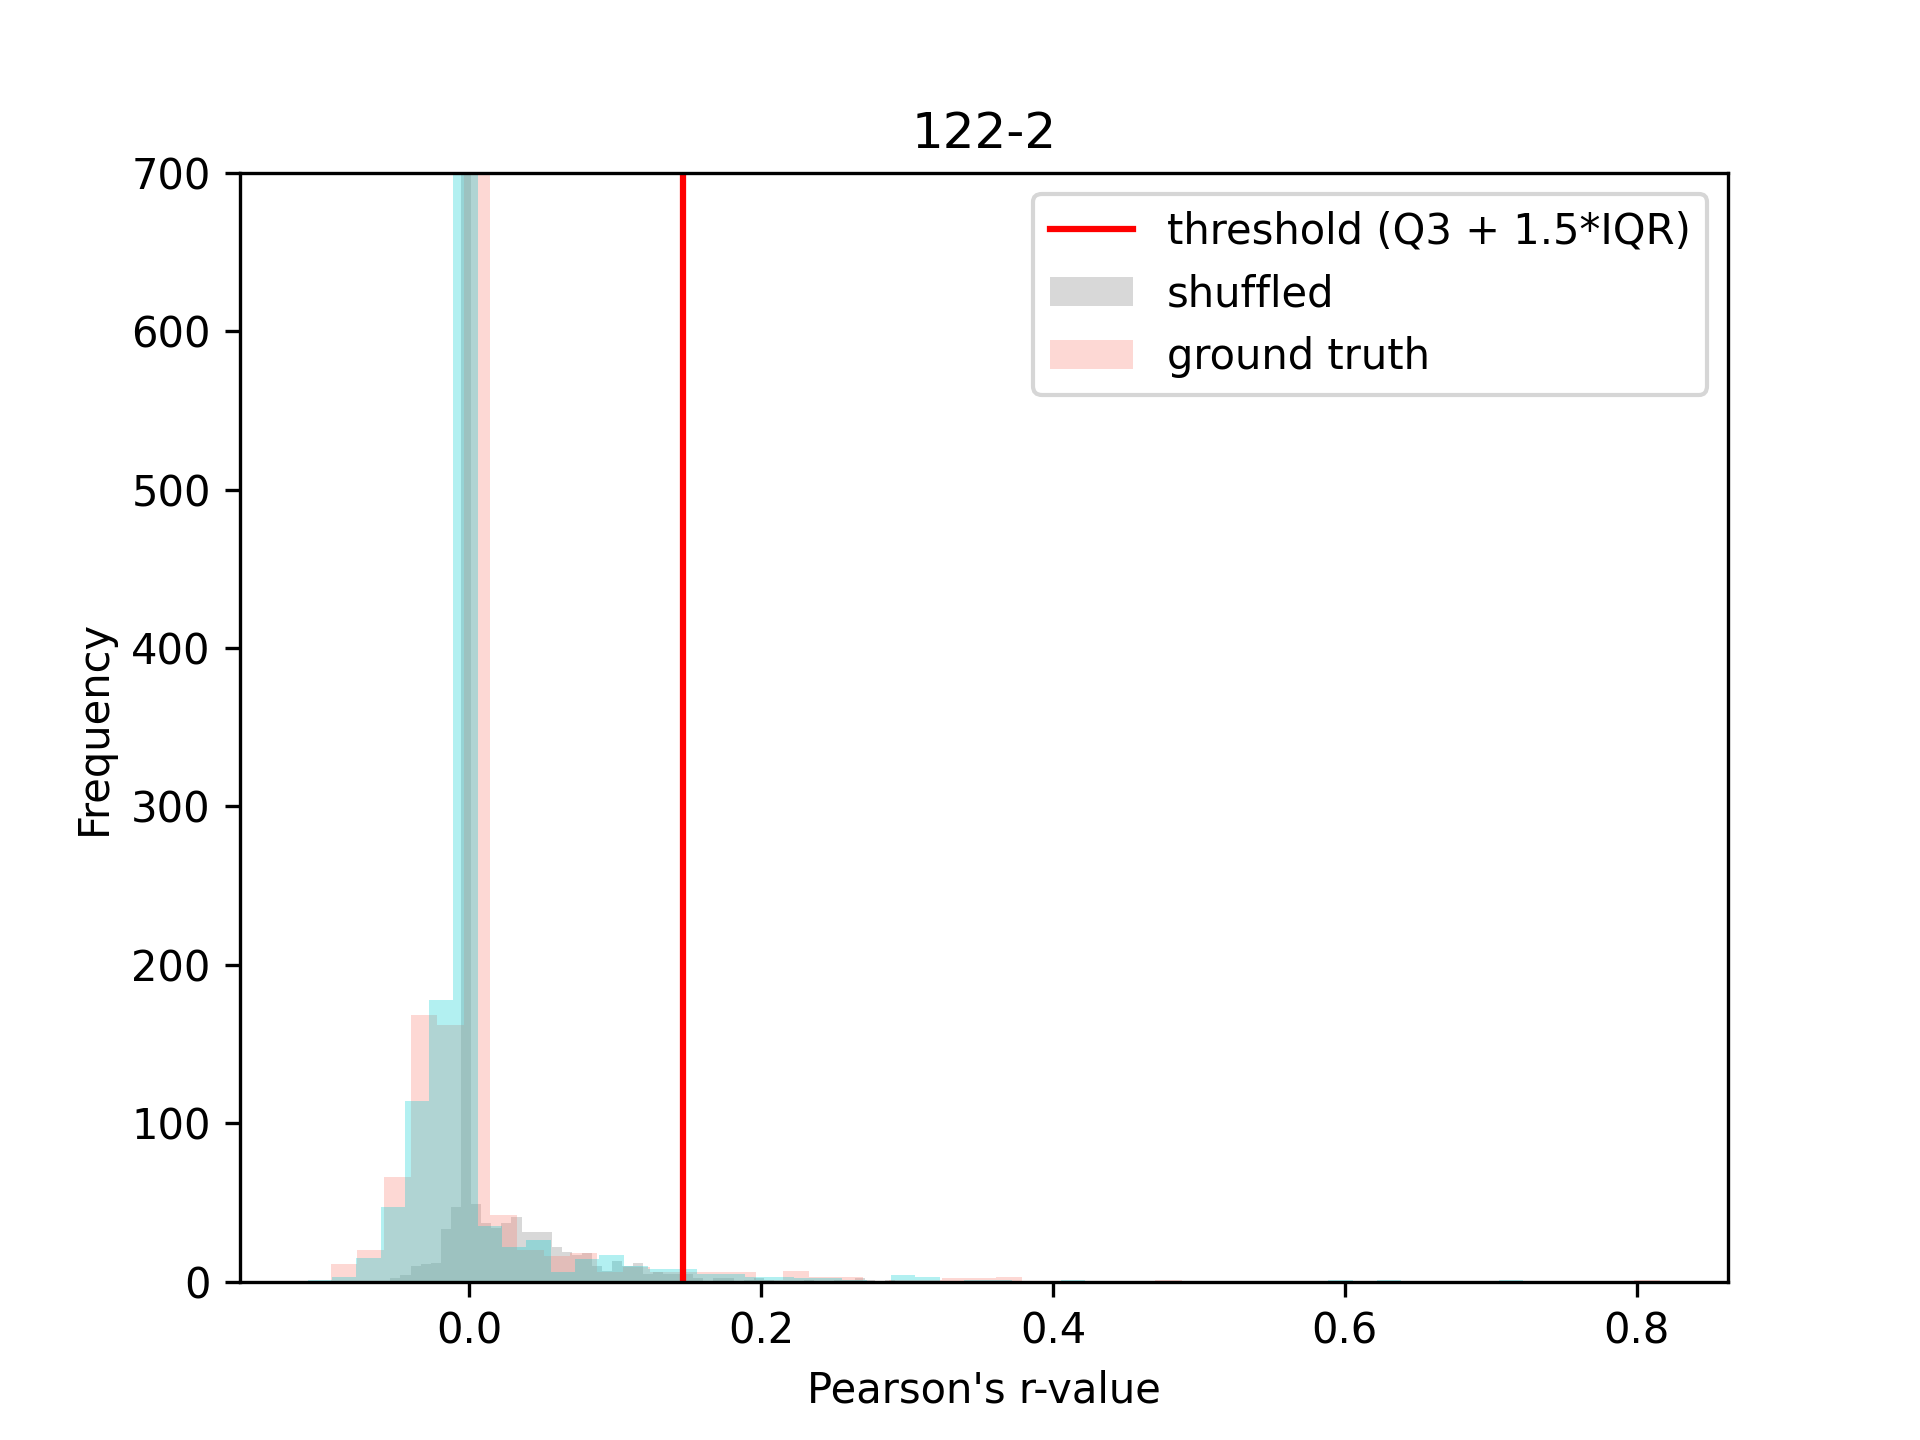
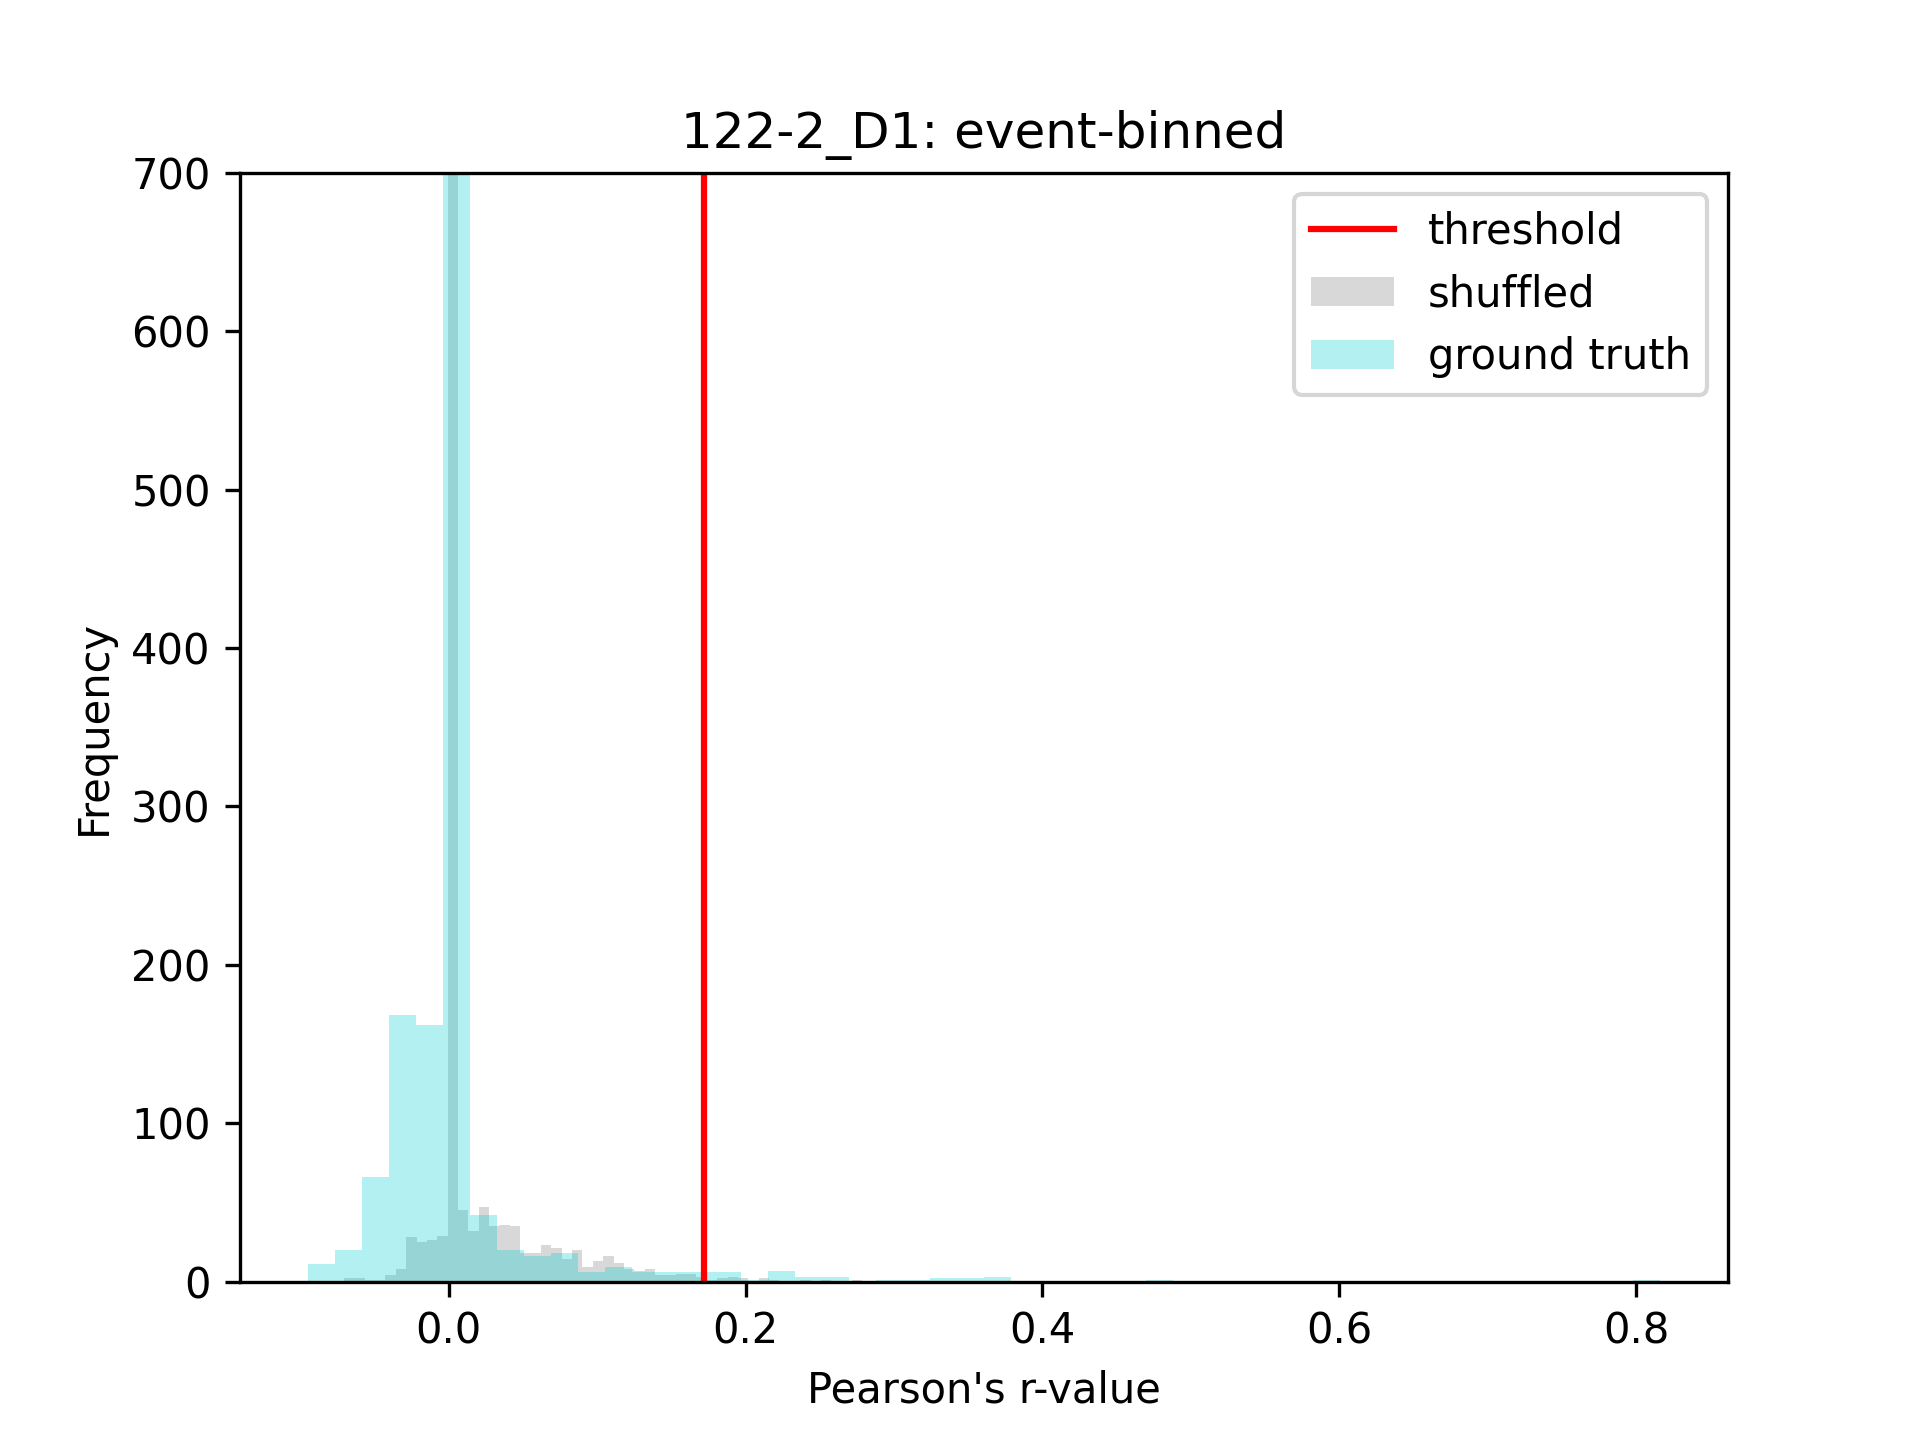
Updating randomize_by_event.py analyses.

diff --git a/analyses/benchmarking/random_networks/randomize_by_event.py b/analyses/benchmarking/random_networks/randomize_by_event.py
@@ -21,7 +21,7 @@ import matplotlib.pyplot as plt
 from scipy import stats
 
 RANDOM_DATA_PATH = '/Users/veronica_porubsky/GitHub/DG_fear_conditioning_graph_theory/analyses/benchmarking/random_networks/randomized_neural_data/'
-EXPORT_PATH = '/Users/veronica_porubsky/GitHub/DG_fear_conditioning_graph_theory/analyses/benchmarking/random_networks/'
+EXPORT_PATH = '/Users/veronica_porubsky/GitHub/DG_fear_conditioning_graph_theory/analyses/benchmarking/random_networks/scratch-analysis/'
 
 def bins(lst, n):
     """Yield successive n-sized chunks from lst."""
@@ -40,14 +40,18 @@ def event_bins(data, events):
     data = list(data)
     build_binned_list = []
     event_idx = list(np.nonzero(events)[0])
-    if event_idx[-1] != len(data):
-        event_idx.append(len(data))
-    start_val = 0
-    for idx in event_idx:
-        build_binned_list.append(data[start_val:idx])
-        start_val = idx
-    np.random.shuffle(build_binned_list)
-    flat_random_binned_list = [item for sublist in build_binned_list for item in sublist]
+    print(event_idx)
+    if not event_idx:
+        flat_random_binned_list = data
+    else:
+        if event_idx[-1] != len(data):
+            event_idx.append(len(data))
+        start_val = 0
+        for idx in event_idx:
+            build_binned_list.append(data[start_val:idx])
+            start_val = idx
+        np.random.shuffle(build_binned_list)
+        flat_random_binned_list = [item for sublist in build_binned_list for item in sublist]
     return flat_random_binned_list
 
 
@@ -110,7 +114,24 @@ def generate_event_segmented(data: list, event_data: list) -> np.ndarray:
 
     return flatten_array
 
+def generate_randomized(data: list, bin_size: int) -> np.ndarray:
+    """
+    data: list
 
+    Parameter data should contain a list of np.ndarray objects.
+
+    Return a numpy array or NWB file.
+    """
+    time = data[0, :].copy()
+    build_new_array = np.array(bins(lst=data[1, :], n=bin_size))
+
+    # build binned dist
+    flatten_array = time.copy()
+    for row in range(np.shape(data[2:, :])[0]):
+        binned_row = bins(lst=data[row + 2, :], n=bin_size)
+        flatten_array = np.vstack([flatten_array, binned_row])
+
+    return flatten_array
 
 #%% Demonstrate binned randomization example
 file_str = '122-2'
@@ -202,36 +223,42 @@ for file in os.listdir(path_to_data):
         mouse_id_list.append(mouse_id)
 
 #%% Only looking at Context B (first half of data)
-import pandas as pd
-# store: mouse_id, threshold event separated, ks-stat event separated, threshold bin-separated, ks-stat bin-separated
-results = np.zeros((58, 4))
+# store: mouse_id, mean, median, max pearson, threshold event separated, ks-stat event separated, mean, median, max pearson, threshold bin-separated, ks-stat bin-separated
+results = np.zeros((58, 13))
 
 for count, mouse in enumerate(mouse_id_list):
     file_str = mouse[:len(mouse)-3]
     day = mouse[len(mouse)-2:]
     print(file_str)
     print(day)
-    if not day == 'D5' and not day == 'D0':
+    if day == 'D5' or day == 'D0':
+        continue
+    else:
         if day == 'D1':
             event_day = 'Day1'
         else:
             event_day = 'Day9'
-        data = np.genfromtxt(path_to_data + f'/{file_str}_{day}_smoothed_calcium_traces.csv', delimiter=',')[:, 0:1800]
-        event_data = np.genfromtxt(path_to_data + f'/{file_str}_{event_day}_eventTrace.csv', delimiter=',')[:, 0:1800]
+        data = np.genfromtxt(path_to_data + f'/{file_str}_{day}_smoothed_calcium_traces.csv', delimiter=',')
+        event_data = np.genfromtxt(path_to_data + f'/{file_str}_{event_day}_eventTrace.csv', delimiter=',')
         random_event_binned_data = generate_event_segmented(data=data.copy(), event_data=event_data)
 
         # Plot the points of identified events
-        plt.plot(event_data[0,:], event_data[2,:], '.')
-        # Check if context A only random networks are different than context B only, and how they compare to
-        plt.plot(random_event_binned_data[0, :], random_event_binned_data[2,:], color='grey', alpha=0.5)
-        plt.plot(data[0, 0:1800], data[2,0:1800], 'darkturquoise', alpha = 0.5)
-        #plt.plot(data[0, 1800:3600], data[2,1800:3600], 'salmon', alpha = 0.5)
-        plt.title('Binned random data')
-        plt.show()
+        # plt.plot(event_data[0,:], event_data[2,:], '.')
+        # # Check if context A only random networks are different than context B only, and how they compare to
+        # plt.plot(random_event_binned_data[0, :], random_event_binned_data[2,:], color='grey', alpha=0.5)
+        # plt.plot(data[0, 0:1800], data[2,0:1800], 'darkturquoise', alpha = 0.5)
+        # #plt.plot(data[0, 1800:3600], data[2,1800:3600], 'salmon', alpha = 0.5)
+        # plt.title('Binned random data')
+        # plt.show()
 
         random_nng = nng(random_event_binned_data)
         x = random_nng.pearsons_correlation_matrix
         np.fill_diagonal(x, 0)
+
+        # Store event trace results
+        results[count, 0] = np.median(x)
+        results[count, 1] = np.mean(x)
+        results[count, 2] = np.max(x)
 
         ##  Generate multiple random timeseries for robust analysis (but then need to account for change in sampling size)
         # store_flattened_random = list(np.tril(x).flatten())
@@ -247,14 +274,17 @@ for count, mouse in enumerate(mouse_id_list):
         # Compute percentiles
         Q1 = np.percentile(x, 25, interpolation='midpoint')
         Q3 = np.percentile(x, 75, interpolation='midpoint')
-        print(Q3)
         IQR = Q3 - Q1
         outlier_threshold = Q3 + 1.5 * IQR
-        print(outlier_threshold)
 
         ground_truth_nng_B = nng(data[:, 0:1800])
         y = ground_truth_nng_B.pearsons_correlation_matrix
         np.fill_diagonal(y, 0)
+
+        # Store event trace results
+        results[count, 3] = np.median(y)
+        results[count, 4] = np.mean(y)
+        results[count, 5] = np.max(y)
 
         # ground_truth_nng_A = nng(data[:, 1800:3600])
         # z = ground_truth_nng_A.pearsons_correlation_matrix
@@ -269,23 +299,95 @@ for count, mouse in enumerate(mouse_id_list):
         plt.legend(['threshold', 'shuffled', 'ground truth'])
         plt.xlabel("Pearson's r-value")
         plt.ylabel("Frequency")
-        plt.title(file_str + '_' + day)
-        #plt.savefig(EXPORT_PATH + f'{file_str}_{day}_threshold_histogram_binned_event.png', dpi=300)
+        plt.title(file_str + '_' + day+ ': event-binned')
+        plt.savefig(EXPORT_PATH + f'{file_str}_{day}_threshold_histogram_binned_event.png', dpi=300)
         plt.show()
 
         random_vals = np.tril(x).flatten()
         data_vals = np.tril(y).flatten()
-        print(f"KS-statistic: {stats.ks_2samp(random_vals, data_vals)}")
+        print(f"Event-binned KS-statistic: {stats.ks_2samp(random_vals, data_vals)}")
 
         print(f"The threshold is: {outlier_threshold}")
 
         # Plot event trace to visualize
-        plt.plot(random_event_binned_data[0, :], random_event_binned_data[2,:], color='grey', alpha=0.5)
-        plt.plot(data[0, 0:1800], data[2,0:1800], 'darkturquoise', alpha = 0.5)
-        plt.plot(data[0, 1800:3600], data[2,1800:3600], 'salmon', alpha = 0.5)
-        plt.show()
+        # plt.plot(random_event_binned_data[0, :], random_event_binned_data[2,:], color='grey', alpha=0.5)
+        # plt.plot(data[0, 0:1800], data[2,0:1800], 'darkturquoise', alpha = 0.5)
+        # #plt.plot(data[0, 1800:3600], data[2,1800:3600], 'salmon', alpha = 0.5)
+        # plt.show()
 
 
         # Store event trace results
-        results[count, 0] = outlier_threshold
-        results[count, 1] = stats.ks_2samp(random_vals, data_vals)
+        results[count, 6] = outlier_threshold
+        results[count, 7] = stats.ks_2samp(random_vals, data_vals)[1]
+
+        # BIN ANALYSIS
+        # random_data = generate_randomized(data=data.copy(), bin_size=1)
+        #
+        # random_nng = nng(random_data)
+        # x=random_nng.pearsons_correlation_matrix
+        # np.fill_diagonal(x, 0)
+        #
+        # # Store event trace results
+        # results[count, 8] = np.median(x)
+        # results[count, 9] = np.mean(x)
+        # results[count, 10] = np.max(x)
+        #
+        # # Compute percentiles
+        # Q1 = np.percentile(x, 25, interpolation='midpoint')
+        # Q3 = np.percentile(x, 75, interpolation='midpoint')
+        # IQR = Q3 - Q1
+        # outlier_threshold = Q3 + 1.5 * IQR
+        #
+        # # Plot with threshold selected
+        # plt.ylim(0,700)
+        # plt.hist(np.tril(x).flatten(), bins=50, color='grey', alpha=0.3)
+        # plt.hist(np.tril(y).flatten(), bins=50, color='darkturquoise', alpha=0.3)
+        # plt.axvline(x = outlier_threshold, color = 'red')
+        # plt.legend(['threshold', 'shuffled', 'ground truth'])
+        # plt.xlabel("Pearson's r-value")
+        # plt.ylabel("Frequency")
+        # plt.title(file_str + '_' + day + ': binsize = 1')
+        # plt.show()
+        #
+        # random_vals = np.tril(x).flatten()
+        # data_vals = np.tril(y).flatten()
+        # print(f"Binsize = 1 KS-statistic: {stats.ks_2samp(random_vals, data_vals)}")
+        #
+        # plt.ylim((0,500))
+        # plt.legend(['shuffled', 'ground truth'])
+        # plt.show()
+        #
+        # # Store event trace results
+        # results[count, 11] = outlier_threshold
+        # results[count, 12] = stats.ks_2samp(random_vals, data_vals)[1]
+
+
+#%%
+import pandas as pd
+pd.set_option("display.max.columns", None)
+
+column_titles = ['rand mean', 'rand median', 'rand max', 'true mean', 'true median', 'true max', 'threshold', 'ks-statistic']
+df = pd.DataFrame(results[:, 0:8], mouse_id_list, column_titles)
+#df.insert(0, 'mouse-id', mouse_id_list)
+print(df)
+
+# drop all zero-valued rows
+df = df.loc[~(df==0.000000).all(axis=1)]
+
+# drop all NaN rows
+df = df.dropna(axis=0)
+
+#%%
+threshold_analysis_df = df
+
+#%%
+average_threshold = threshold_analysis_df['threshold'].mean()
+print(average_threshold)
+#%% Store as hdf5
+import numpy as np
+import pandas as pd
+
+save_path = '/Users/veronica_porubsky/GitHub/DG_fear_conditioning_graph_theory/analyses/benchmarking/random_networks/'
+threshold_analysis_df.to_hdf(save_path + "threshold_analysis_df.h5", key = 'threshold_analysis_df', mode='w')
+# Read saved HDF5
+df = pd.read_hdf(save_path + "threshold_analysis_df.h5", 'threshold_analysis_df')
